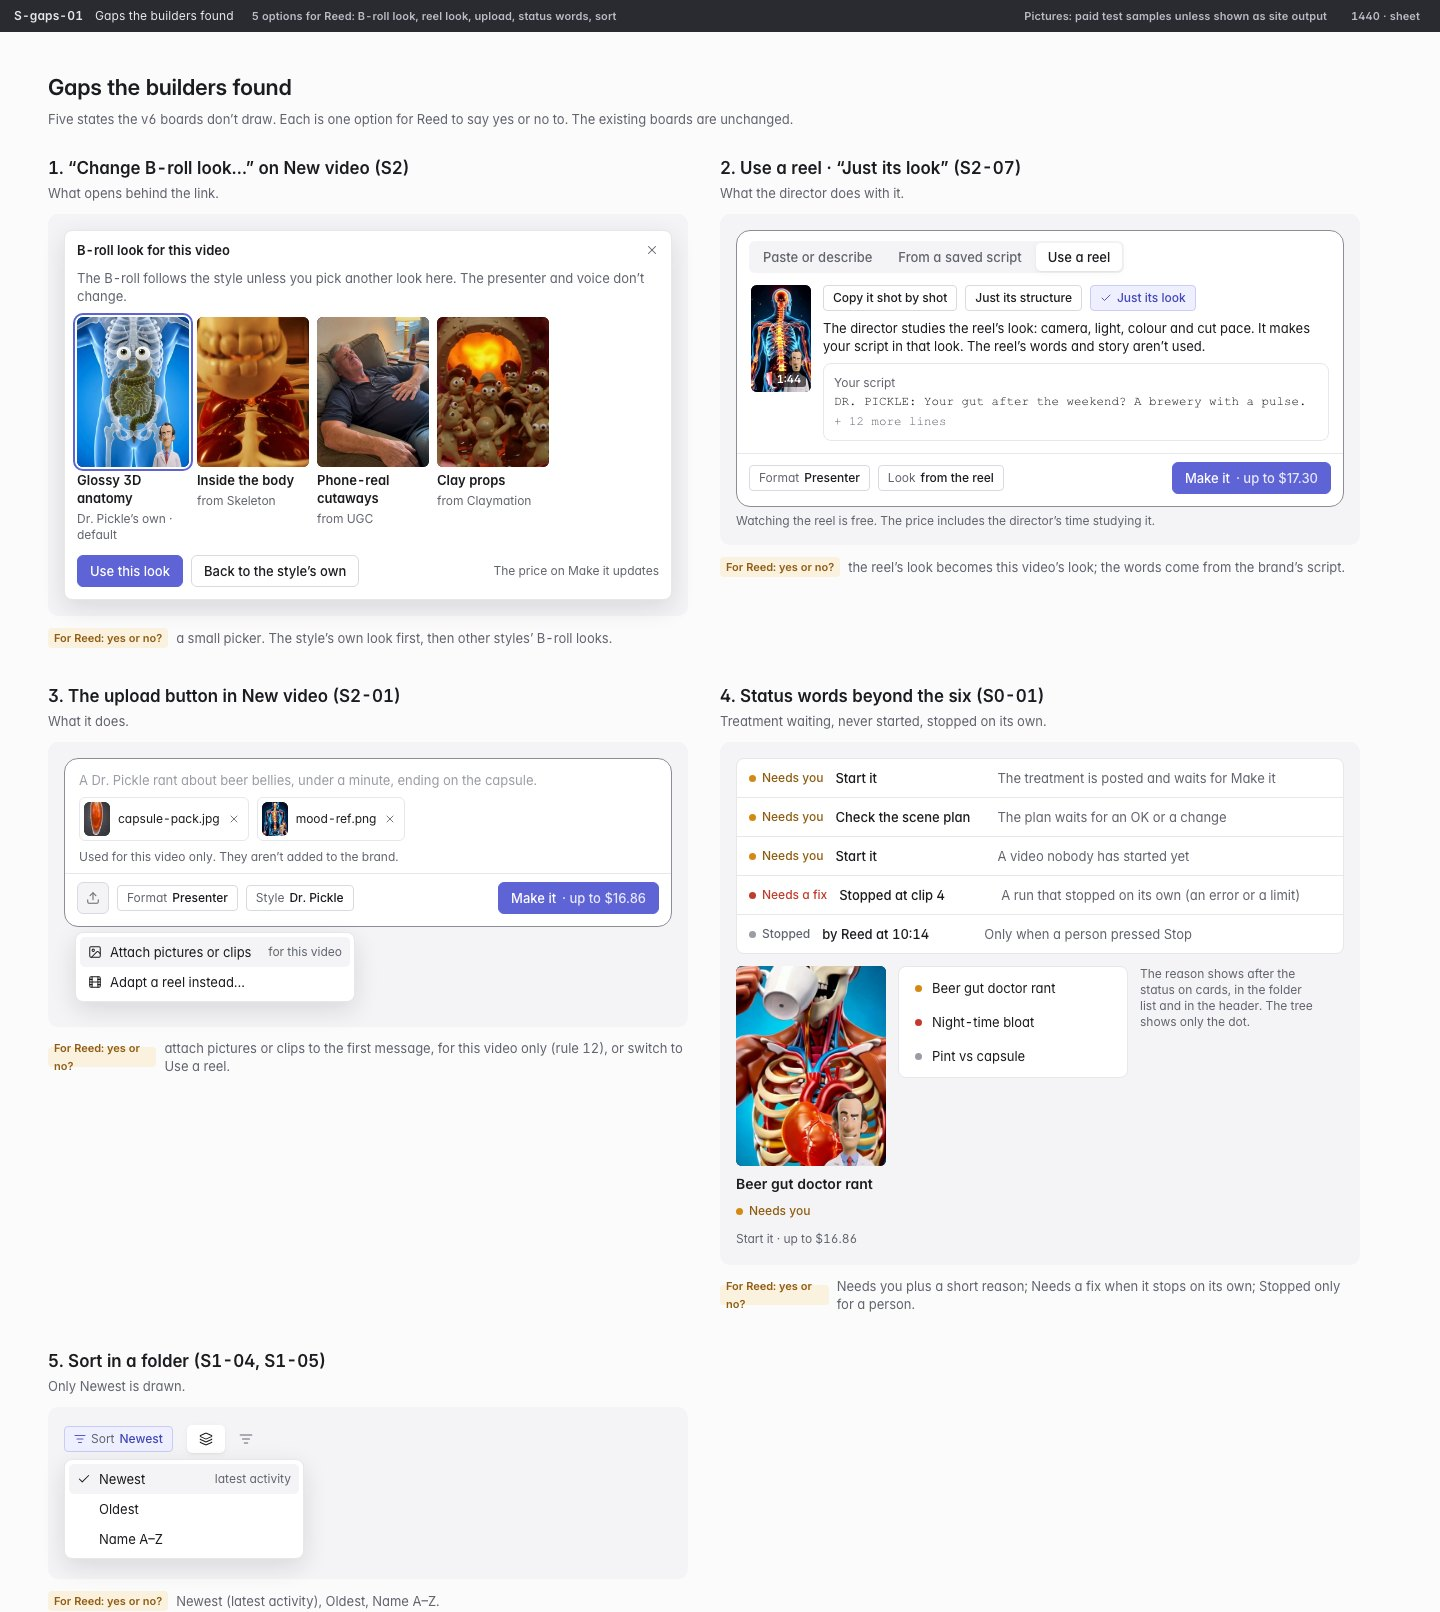
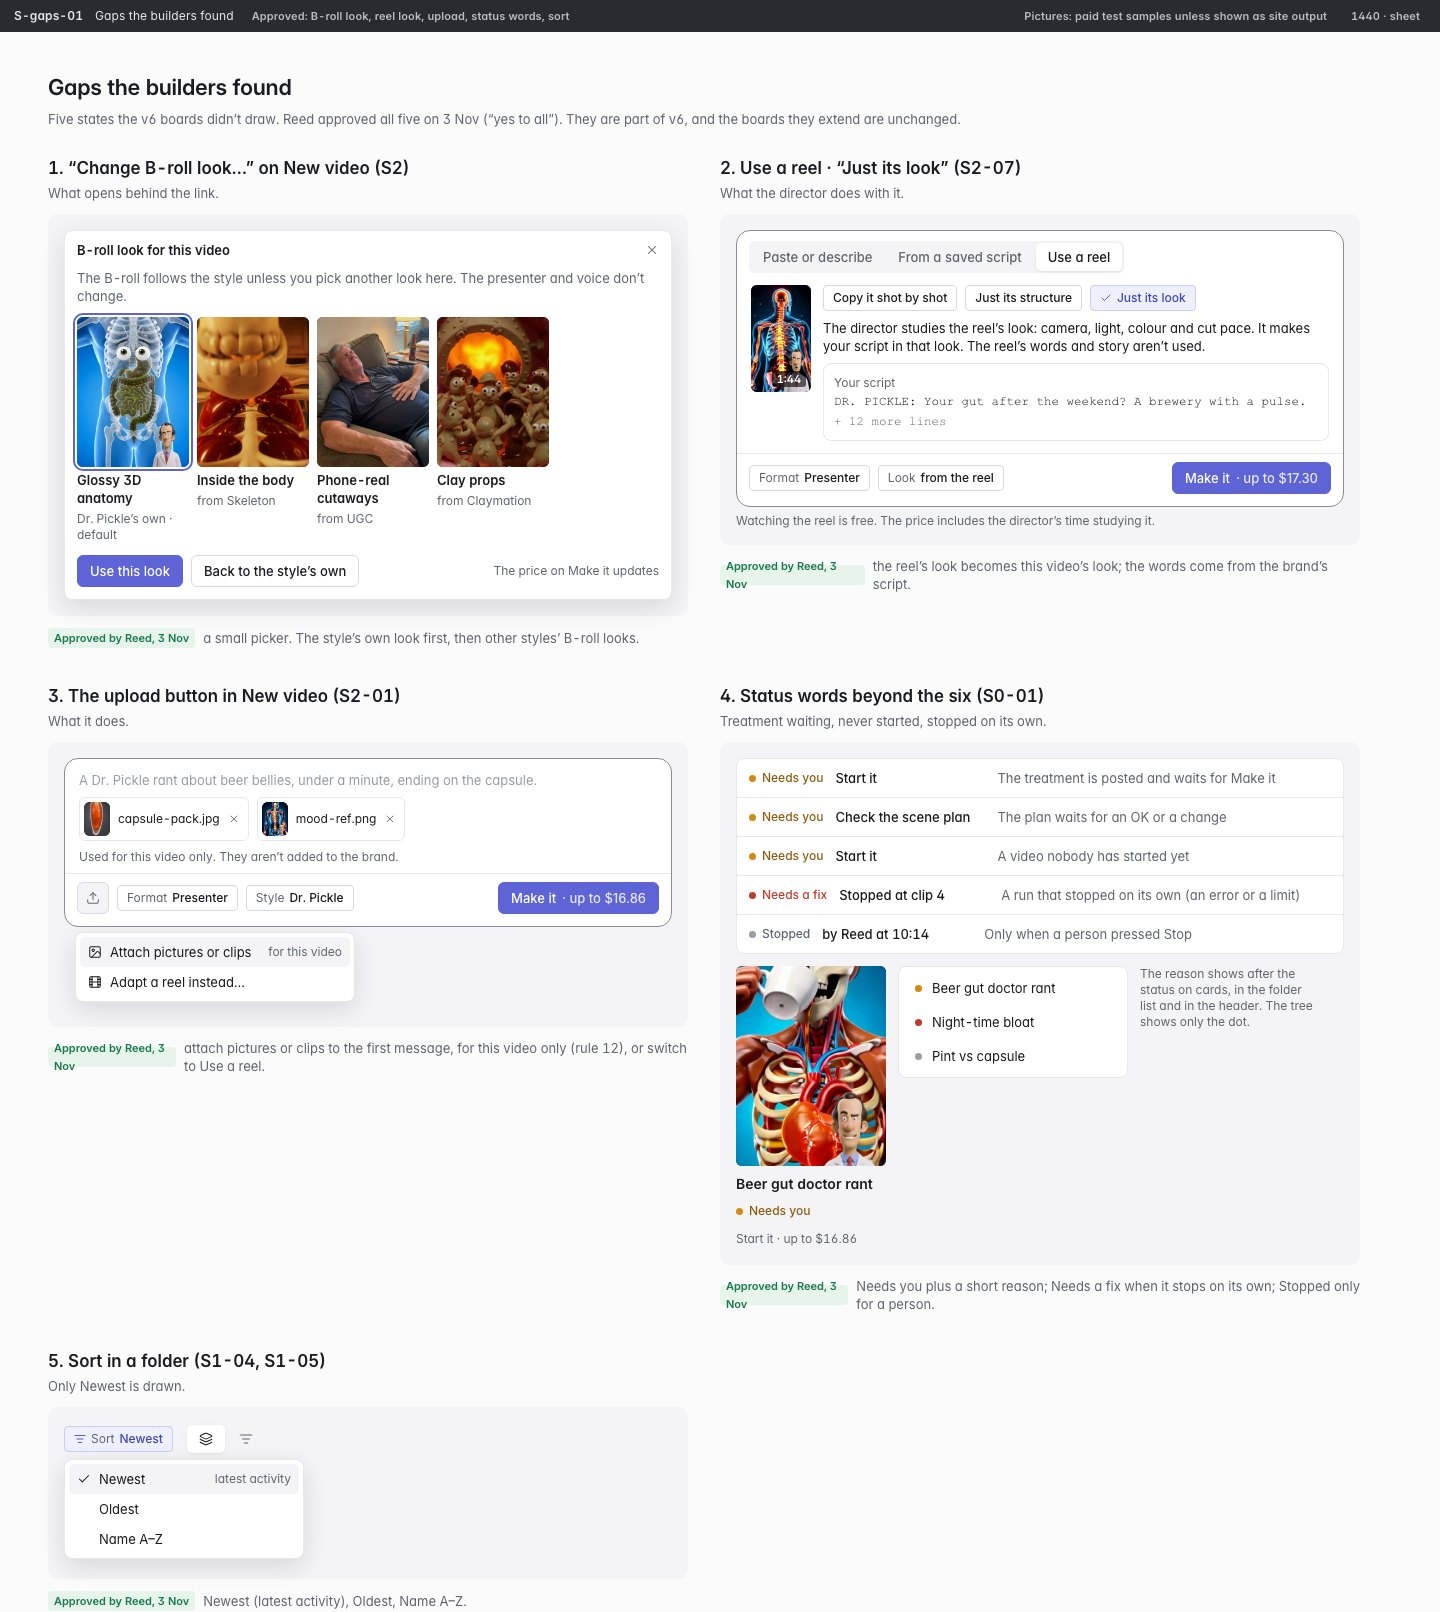
v6: S-gaps-01 approved by Reed ("yes to all")

diff --git a/docs/design/v6/src/b_gaps.py b/docs/design/v6/src/b_gaps.py
@@ -8,7 +8,7 @@ def cell(n, title, ask, drawn, note):
     return f'''<div class="col g3" style="width:{W}px">
       <div class="col g1"><span class="t-lg">{n}. {title}</span><span class="t-sm muted">{ask}</span></div>
       <div style="padding:16px;background:var(--surface-2);border-radius:10px">{drawn}</div>
-      <div class="row g2 t-sm"><span class="tag need">For Reed: yes or no?</span><span class="muted">{note}</span></div></div>'''
+      <div class="row g2 t-sm"><span class="tag ok">Approved by Reed, 3 Nov</span><span class="muted">{note}</span></div></div>'''
 
 
 # 1. Change B-roll look…
@@ -55,7 +55,7 @@ g5 = f'''<div style="position:relative;height:140px"><div class="row g3">{chip("
   <div class="menu" style="left:0;top:36px;width:240px"><div class="mi on">{ic("check","s14")}Newest<span class="grow"></span><span class="t-xs muted">latest activity</span></div>
   <div class="mi"><span style="width:14px"></span>Oldest</div><div class="mi"><span style="width:14px"></span>Name A–Z</div></div></div>'''
 
-sheet = f'''<div class="col g2" style="margin-bottom:28px"><span class="t-2xl">Gaps the builders found</span><span class="t-sm muted">Five states the v6 boards don’t draw. Each is one option for Reed to say yes or no to. The existing boards are unchanged.</span></div>
+sheet = f'''<div class="col g2" style="margin-bottom:28px"><span class="t-2xl">Gaps the builders found</span><span class="t-sm muted">Five states the v6 boards didn’t draw. Reed approved all five on 3 Nov (“yes to all”). They are part of v6, and the boards they extend are unchanged.</span></div>
   <div class="row g8 wrap start" style="row-gap:36px">
   {cell(1, "“Change B-roll look…” on New video (S2)", "What opens behind the link.", g1, "a small picker. The style’s own look first, then other styles’ B-roll looks.")}
   {cell(2, "Use a reel · “Just its look” (S2-07)", "What the director does with it.", g2, "the reel’s look becomes this video’s look; the words come from the brand’s script.")}
@@ -64,4 +64,4 @@ sheet = f'''<div class="col g2" style="margin-bottom:28px"><span class="t-2xl">G
   {cell(5, "Sort in a folder (S1-04, S1-05)", "Only Newest is drawn.", g5, "Newest (latest activity), Oldest, Name A–Z.")}
   </div>'''
 
-board("S-gaps-01", "Gaps the builders found", "5 options for Reed: B-roll look, reel look, upload, status words, sort", sheet, "s", h=1580)
+board("S-gaps-01", "Gaps the builders found", "Approved: B-roll look, reel look, upload, status words, sort", sheet, "s", h=1580)

diff --git a/docs/design/v6/review.md b/docs/design/v6/review.md
@@ -54,3 +54,12 @@ Below: what they found, what was fixed, and what's still open for Reed.
 5. **A story choice:** after a while, the director picks its suggestion, as S4-02 shows.
 
 Still to know: there are 15 phone boards, because the other states reuse the desktop layouts. The 57-board v5 canvas wasn't reachable for comparison.
+
+## Gaps the builders found (3 Nov), approved
+
+Reed said "yes to all" to the five options on [S-gaps-01](boards/S-gaps-01.jpg):
+- the B-roll look picker;
+- "Just its look" for a reel;
+- the upload button (for this video only);
+- the status words ("Needs you" with a reason; "Needs a fix" when a run stops on its own; "Stopped" only when a person stops it);
+- sorting by Newest, Oldest or Name A–Z.

diff --git a/docs/design/v6/README.md b/docs/design/v6/README.md
@@ -156,6 +156,6 @@ For Reed. Design only: nothing here is built, and nothing here spent money. Appr
 
 | Board | State |
 |---|---|
-| [S-gaps-01](boards/S-gaps-01.jpg) | 5 options for Reed: B-roll look, reel look, upload, status words, sort |
+| [S-gaps-01](boards/S-gaps-01.jpg) | Approved: B-roll look, reel look, upload, status words, sort |
 
 78 boards in all: 63 desktop (1440) and sheets, 15 phone (390).
